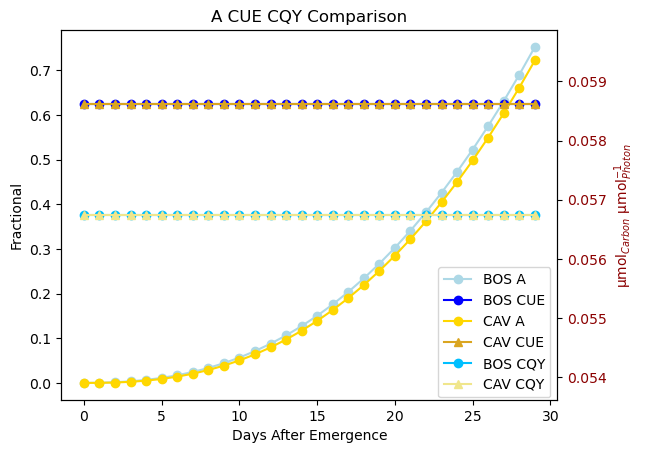
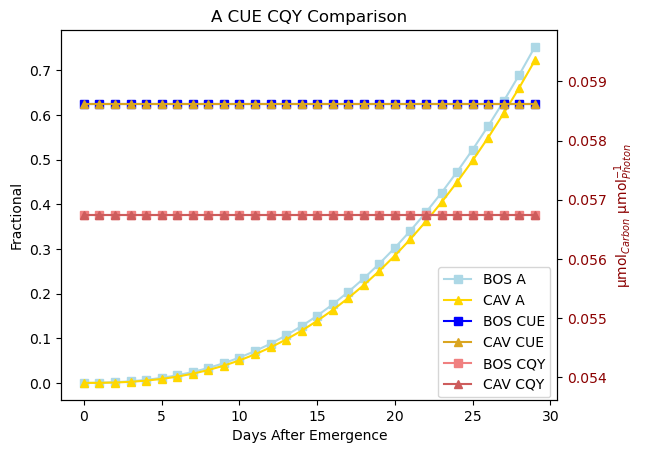
more visulizations

diff --git a/ABC Comp file.py b/ABC Comp file.py
@@ -1,6 +1,6 @@
 import pandas as pd
 import matplotlib.pyplot as plt
-import numpy as mp
+import numpy as np
 
 ##################################################
 ################## MODEL INPUTS ##################
@@ -32,6 +32,9 @@ bigdf.to_csv('C:/Users/donal/Documents/Github/Modified-Energy-Cascade/ABC_comp.c
 
 
 
+''' AMI= green colors or 'o'
+     BOS= blue colors or 's'
+     CAV= yelllow colors or '^'  '''
 ##################################################
 ###############   Start Charting  ################
 ##################################################
@@ -40,10 +43,10 @@ bigdf.to_csv('C:/Users/donal/Documents/Github/Modified-Energy-Cascade/ABC_comp.c
 # fig, ax = plt.subplots()
 # ax.plot(bigdf['Day'], bigdf['AMI_alpha'],       marker='o', color='lightgreen',     label='AMI α')
 # ax.plot(bigdf['Day'], bigdf['AMI_beta'],        marker='o', color='green',          label='AMI β')
-# ax.plot(bigdf['Day'], bigdf['BOS_AVG_ALPHA'],   marker='o', color='lightblue',      label='BOS α')
-# ax.plot(bigdf['Day'], bigdf['BOS_AVG_BETA'],    marker='o', color='blue',           label='BOS β')
-# ax.plot(bigdf['Day'], bigdf['CAV_ALPHA'],       marker='o', color='gold',           label='CAV α')
-# ax.plot(bigdf['Day'], bigdf['CAV_BETA'],        marker='o', color='goldenrod',      label='CAV β')
+# ax.plot(bigdf['Day'], bigdf['BOS_AVG_ALPHA'],   marker='s', color='lightblue',      label='BOS α')
+# ax.plot(bigdf['Day'], bigdf['BOS_AVG_BETA'],    marker='s', color='blue',           label='BOS β')
+# ax.plot(bigdf['Day'], bigdf['CAV_ALPHA'],       marker='^', color='gold',           label='CAV α')
+# ax.plot(bigdf['Day'], bigdf['CAV_BETA'],        marker='^', color='goldenrod',      label='CAV β')
 # ax.set_ylabel('Unsure about units')
 # ax.set_xlabel('Days After Emergence')
 # plt.figlegend(bbox_to_anchor=(-0.21, 0.39, 0.5, 0.5))
@@ -51,16 +54,17 @@ bigdf.to_csv('C:/Users/donal/Documents/Github/Modified-Energy-Cascade/ABC_comp.c
 # plt.savefig('C:/Users/donal/Documents/GitHub/Modified-Energy-Cascade/Comparison Charts/Alpha_Beta_Comparison.png') #there are many options for savefig
 # plt.show()
 
-# ####################### A, CQY, CUE, ###################################
+
+####################### A, CQY, CUE, ###################################
 # fig, ax = plt.subplots()
-# ax.plot(bigdf['Day'], bigdf['BOS_AVG_A'],      marker='o', color='lightblue',  label='BOS A')
-# ax.plot(bigdf['Day'], bigdf['BOS_AVG_CUE_24'], marker='o', color='blue',       label='BOS CUE')
-# ax.plot(bigdf['Day'], bigdf['CAV_A'],          marker='o', color='gold',       label='CAV A')
+# ax.plot(bigdf['Day'], bigdf['BOS_AVG_A'],      marker='s', color='lightblue',  label='BOS A')
+# ax.plot(bigdf['Day'], bigdf['CAV_A'],          marker='^', color='gold',       label='CAV A')
+# ax.plot(bigdf['Day'], bigdf['BOS_AVG_CUE_24'], marker='s', color='blue',       label='BOS CUE')
 # ax.plot(bigdf['Day'], bigdf['CAV_CUE_24'],     marker='^', color='goldenrod',  label='CAV CUE')
 # ax.set_ylabel('Fractional')
 # ax2 = ax.twinx()
-# ax2.plot(bigdf['Day'], bigdf['BOS_AVG_CQY'],    marker='o', color='deepskyblue',label='BOS CQY')
-# ax2.plot(bigdf['Day'], bigdf['CAV_CQY'],        marker='^', color='khaki',  label='CAV CQY')
+# ax2.plot(bigdf['Day'], bigdf['BOS_AVG_CQY'],    marker='s', color='lightcoral',label='BOS CQY')
+# ax2.plot(bigdf['Day'], bigdf['CAV_CQY'],        marker='^', color='indianred',  label='CAV CQY')
 # ax2.set_facecolor('darkred')
 # ax2.set_ylabel('μmol$_{Carbon}$ μmol$_{Photon}^{-1}$', color='darkred')
 # ax2.tick_params(axis='y',labelcolor='darkred')
@@ -70,7 +74,7 @@ bigdf.to_csv('C:/Users/donal/Documents/Github/Modified-Energy-Cascade/ABC_comp.c
 # plt.savefig('C:/Users/donal/Documents/GitHub/Modified-Energy-Cascade/Comparison Charts/A_CUE_CQY_Comparison.png', bbox_inches='tight') #there are many options for savefig
 # plt.show()
 
-# ########### Conductances #########################
+# ########## Conductances #########################
 # fig, ax = plt.subplots()
 # ax.plot(bigdf['Day'], bigdf['AMI_g_S'],     marker='o', color='green',      label='AMI g$_S$')
 # ax.plot(bigdf['Day'], bigdf['AMI_g_C'],     marker='o', color='lightgreen', label='AMI g$_C$')
@@ -85,7 +89,20 @@ bigdf.to_csv('C:/Users/donal/Documents/Github/Modified-Energy-Cascade/ABC_comp.c
 # plt.savefig('C:/Users/donal/Documents/GitHub/Modified-Energy-Cascade/Comparison Charts/Conductances_Comparison.png') #there are many options for savefig
 # plt.show()
 
-# ################### Photosynthesis #####################
+#################### Gas Exchanges ######################
+fig, ax= plt.subplots()
+ax.plot(bigdf['Day'], bigdf['AMI_DTR'],     marker='o', color='green',      label='AMI DTR')
+ax.plot(bigdf['Day'], bigdf['BOS_TOT_DTR'], marker='s', color='blue',       label='BOS DTR')
+ax.plot(bigdf['Day'], bigdf['CAV_DTR'],     marker='^', color='goldenrod',  label='CAV DTR')
+ax.set_ylabel('L$_{water}$ m$^{-2}$ day$^{-1}$')
+ax.set_xlabel('Days After Emergence')
+plt.figlegend(bbox_to_anchor=(-0.185, 0.39, 0.5, 0.5))
+plt.title('Gas Exchanges')
+plt.savefig('C:/Users/donal/Documents/GitHub/Modified-Energy-Cascade/Comparison Charts/Gas_Exchange_Comparison.png') #there are many options for savefig
+plt.show()
+
+
+# ################## Photosynthesis #####################
 # fig, ax = plt.subplots()
 # ax.plot(bigdf['Day'], bigdf['AMI_P_GROSS'],     marker='o', color='green',      label='AMI P$_{GROSS}$')
 # ax.plot(bigdf['Day'], bigdf['AMI_P_NET'],       marker='o', color='lightgreen', label='AMI P$_{NET}$')
@@ -99,10 +116,10 @@ bigdf.to_csv('C:/Users/donal/Documents/Github/Modified-Energy-Cascade/ABC_comp.c
 # plt.savefig('C:/Users/donal/Documents/GitHub/Modified-Energy-Cascade/Comparison Charts/Photosynthesis_Comparison.png') #there are many options for savefig
 # plt.show()
 
-####################### Daily Carbon Gain ###################################
+# ##################### Daily Carbon Gain ###################################
 # fig, ax = plt.subplots()
-# ax.plot(bigdf['Day'], bigdf['AMI_DCG'],      marker='o', color='green',  label='AMI DCG')
-# ax.plot(bigdf['Day'], bigdf['BOS_TOT_DCG'],  marker='s', color='blue',  label='BOS DCG')
+# ax.plot(bigdf['Day'], bigdf['AMI_DCG'],      marker='o', color='green',      label='AMI DCG')
+# ax.plot(bigdf['Day'], bigdf['BOS_TOT_DCG'],  marker='s', color='blue',       label='BOS DCG')
 # ax.plot(bigdf['Day'], bigdf['CAV_DCG'],      marker='^', color='goldenrod',  label='CAV DCG')
 # ax.set_xlabel('Days After Emergence')
 # ax.set_ylabel('mol$_{Carbon}$ m$^{-2}$ day$^{-1}$')
@@ -111,7 +128,7 @@ bigdf.to_csv('C:/Users/donal/Documents/Github/Modified-Energy-Cascade/ABC_comp.c
 # plt.savefig('C:/Users/donal/Documents/GitHub/Modified-Energy-Cascade/Comparison Charts/DCG_Comparison.png') #there are many options for savefig
 # plt.show()
 
-####################### Crop Productivity ###################################
+# ##################### Crop Productivity ###################################
 # fig, ax = plt.subplots()
 # ax.plot(bigdf['Day'], bigdf['AMI_TEB'],      marker='o', color='darkgreen',  label='AMI TEB')
 # ax.plot(bigdf['Day'], bigdf['CAV_TEB'],      marker='^', color='green',      label='CAV TEB')
@@ -119,17 +136,14 @@ bigdf.to_csv('C:/Users/donal/Documents/Github/Modified-Energy-Cascade/ABC_comp.c
 # ax.set_ylabel('grams m$^{-2}$', color='green')
 # ax.tick_params(axis='y', labelcolor='green')
 # ax2 = ax.twinx()
-# ax2.plot(bigdf['Day'], bigdf['AMI_CGR'],      marker='o', color='red',     label='AMI CGR')
+# ax2.plot(bigdf['Day'], bigdf['AMI_CGR'],      marker='o', color='lightcoral',     label='AMI CGR')
 # ax2.plot(bigdf['Day'], bigdf['BOS_TOT_DCGR'], marker='s', color='salmon',  label='BOS CGR')
-# ax2.plot(bigdf['Day'], bigdf['CAV_CGR'],      marker='^', color='darkred', label='CAV CGR')
-# ax2.set_ylabel('grams m$^{-2}$ day$^{-1}$', color='red')
-# ax2.tick_params(axis='y',labelcolor='red')
+# ax2.plot(bigdf['Day'], bigdf['CAV_CGR'],      marker='^', color='indianred', label='CAV CGR')
+# ax2.set_ylabel('grams m$^{-2}$ day$^{-1}$', color='darkred')
+# ax2.tick_params(axis='y',labelcolor='darkred')
 # ax.set_xlabel('Days After Emergence')
 # plt.figlegend(bbox_to_anchor=(-0.18, 0.39, 0.5, 0.5))
 # plt.title('Crop Productivity')
 # plt.savefig('C:/Users/donal/Documents/GitHub/Modified-Energy-Cascade/Comparison Charts/Crop_Productivity_Comparison.png') #there are many options for savefig
 # plt.show()
 
-''' AMI= green colors or 'o'
-    BOS= blue colors or 's'
-    CAV= yelllow colors or '^'  '''

diff --git a/Amitrano/Amitrano MEC.py b/Amitrano/Amitrano MEC.py
@@ -170,6 +170,19 @@ print(df_records)       # Prints entire dataframe
 # plt.title('ALL THE DATA!')
 # plt.show()
 
+###################### CARBON FLOW ######################
+# fig, ax = plt.subplots()
+# # ax.plot(df_records['Timestep'], df_records['TCB'], marker='o', color='lightgreen')
+# ax.plot(df_records['Timestep'], df_records['TEB'], marker='o', color='green')
+# ax.set_ylabel(' grams / meter^2', color = 'green')
+# ax.tick_params(axis='y', labelcolor='green')
+# ax2 = ax.twinx()
+# # ax2.plot(df_records['Timestep'], df_records['DCG'], marker='o', color='black')
+# ax2.set_ylabel(' mol carbon / ((m^2)*Day)')
+# fig.legend(['TCB', 'TEB', 'DCG'])
+# plt.title('Carbon Flow')
+# plt.show()
+
 # ############################################################
 # ##################### NOTES FOR LATER ######################
 # ############################################################
